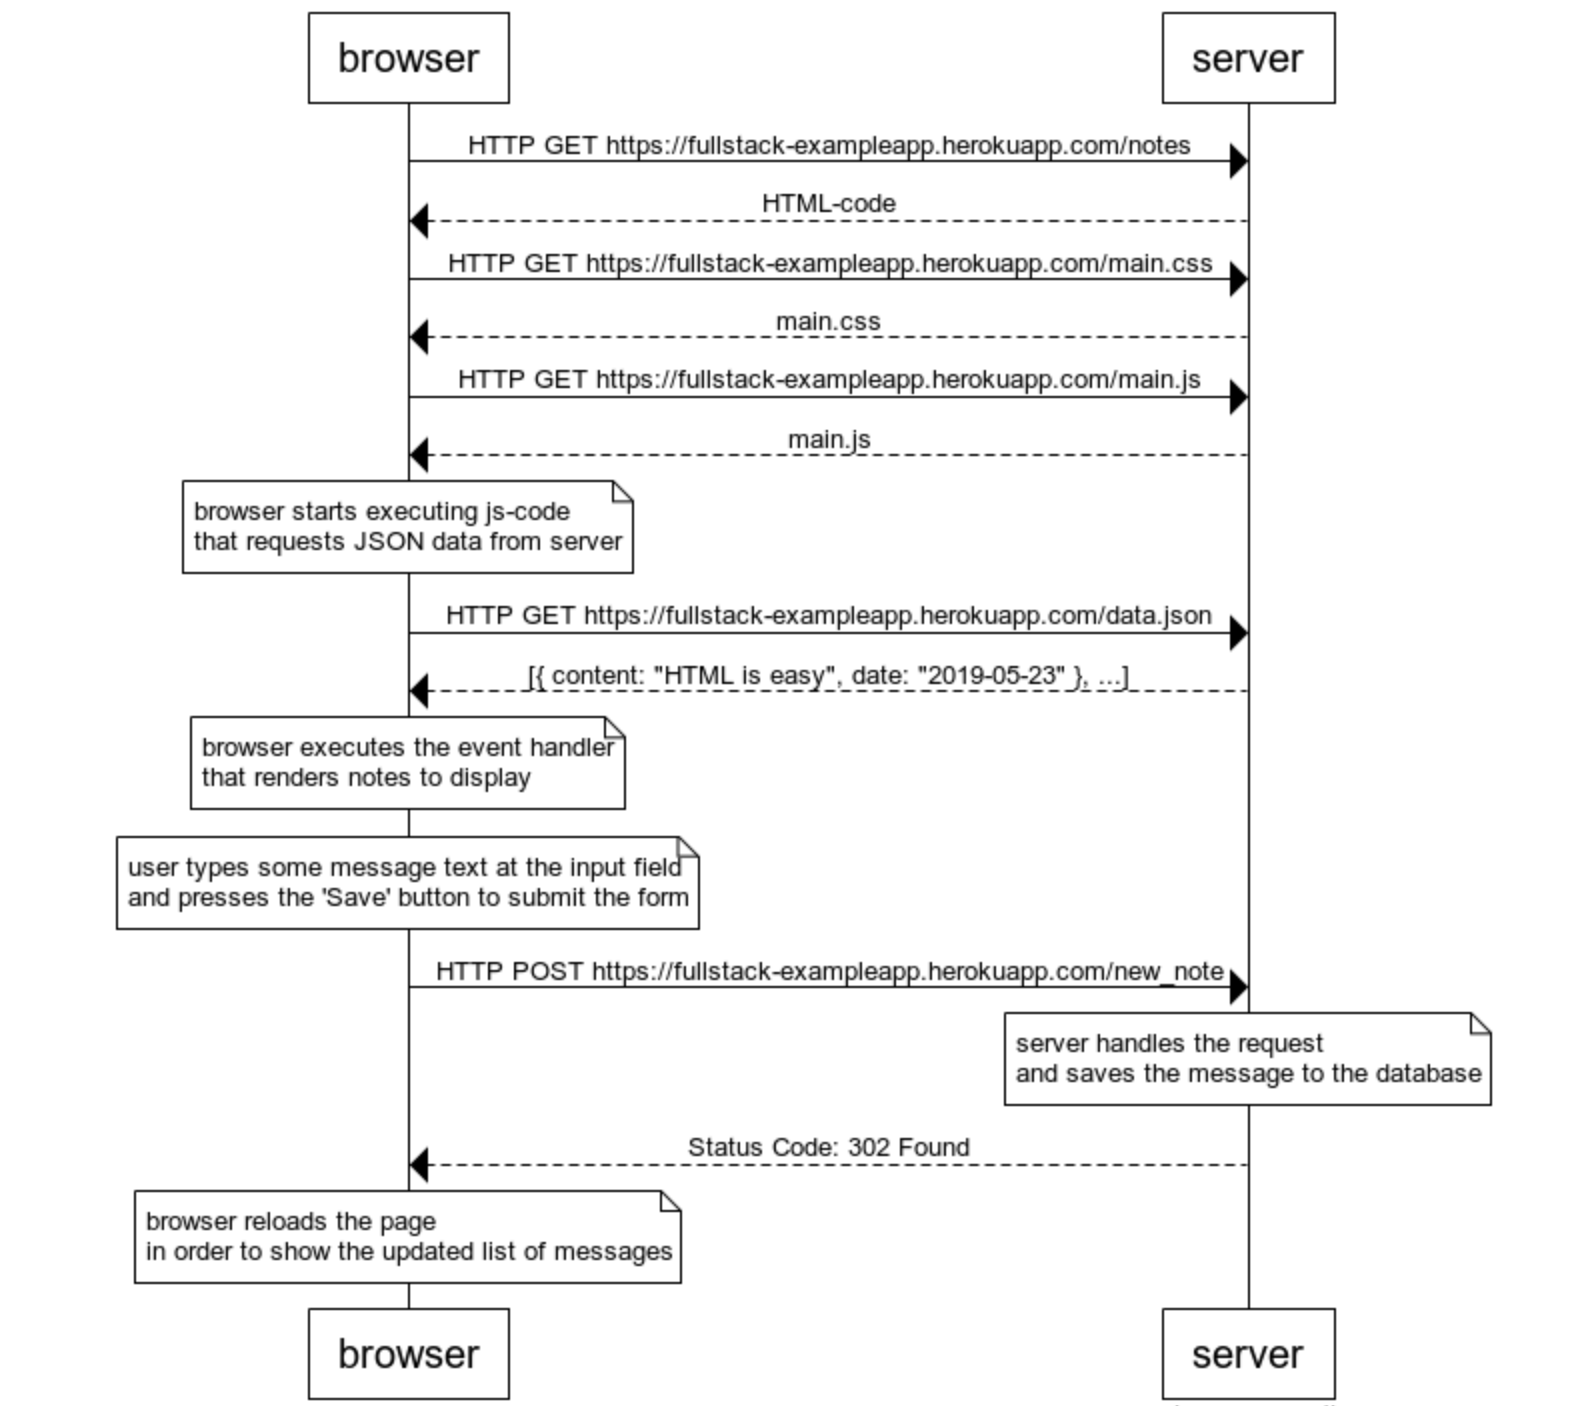
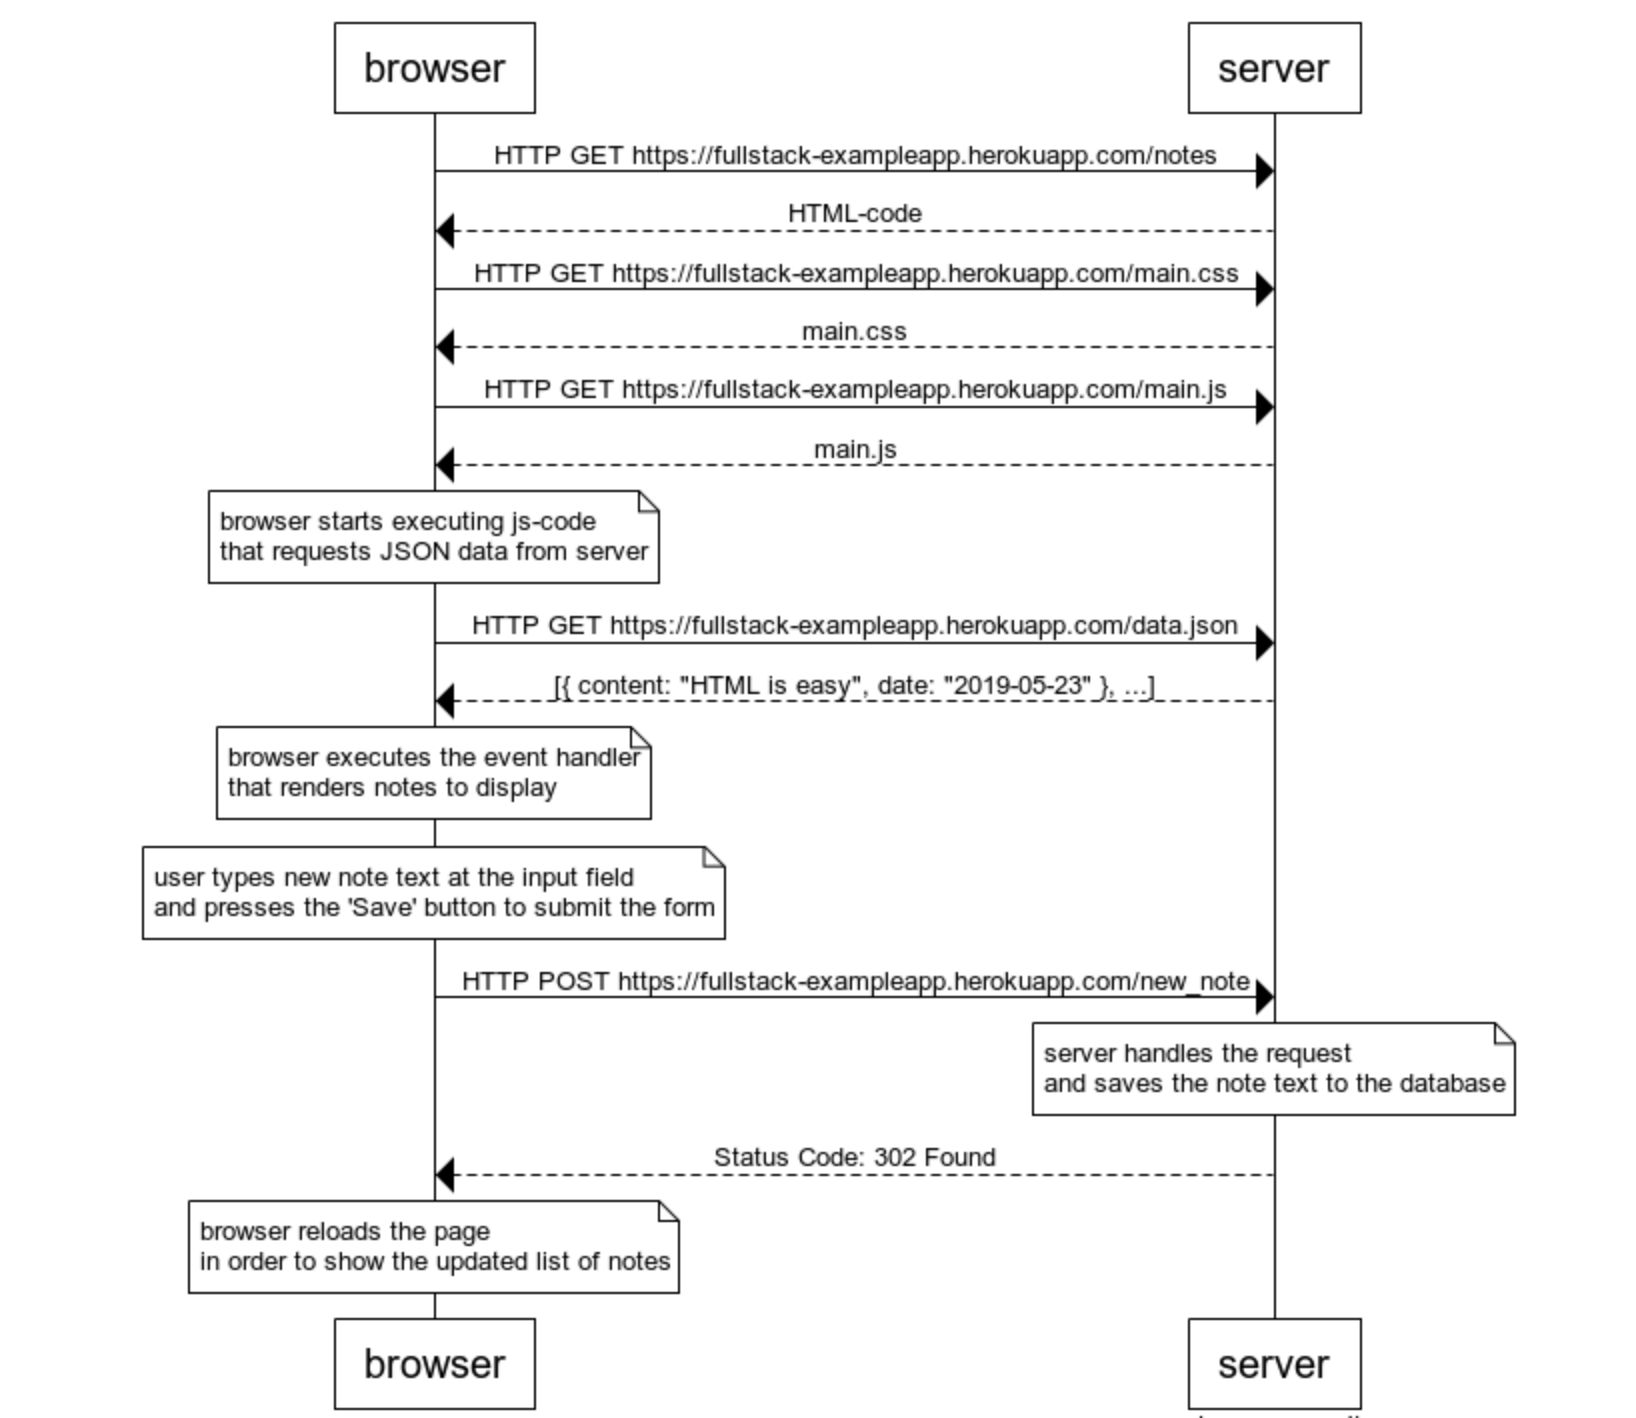
Tasks 0.5, 0.6

Changed region(s): [[0.0622, 0.0, 0.9638, 1.0], [0.4353, 0.7952, 0.6218, 0.8257]]

diff --git a/part0/README.md b/part0/README.md
@@ -9,7 +9,20 @@
 ## 0.3: HTML forms
 [HTML forms tutorial](https://developer.mozilla.org/en-US/docs/Learn/HTML/Forms/Your_first_HTML_form) <img src="https://github.com/ssokurenko/fullstackopen/raw/master/assets/images/done.png" width="30" height="30">
 
-## 0.4: new note
+## 0.4: New note
 
-The user creates a new note and clicking the 'Save' button.
+The user creates a new note and clicking the 'Save' button:
+
 <img src="https://github.com/ssokurenko/fullstackopen/raw/master/assets/images/diagram-0-4.png">
+
+## 0.5: Single page app
+
+The user goes to the single page app version of the notes app:
+
+
+
+## 0.6: New note
+
+The user creates a new note using the single page version of the app:
+
+<img src="https://github.com/ssokurenko/fullstackopen/raw/master/assets/images/diagram-0-6.png">
